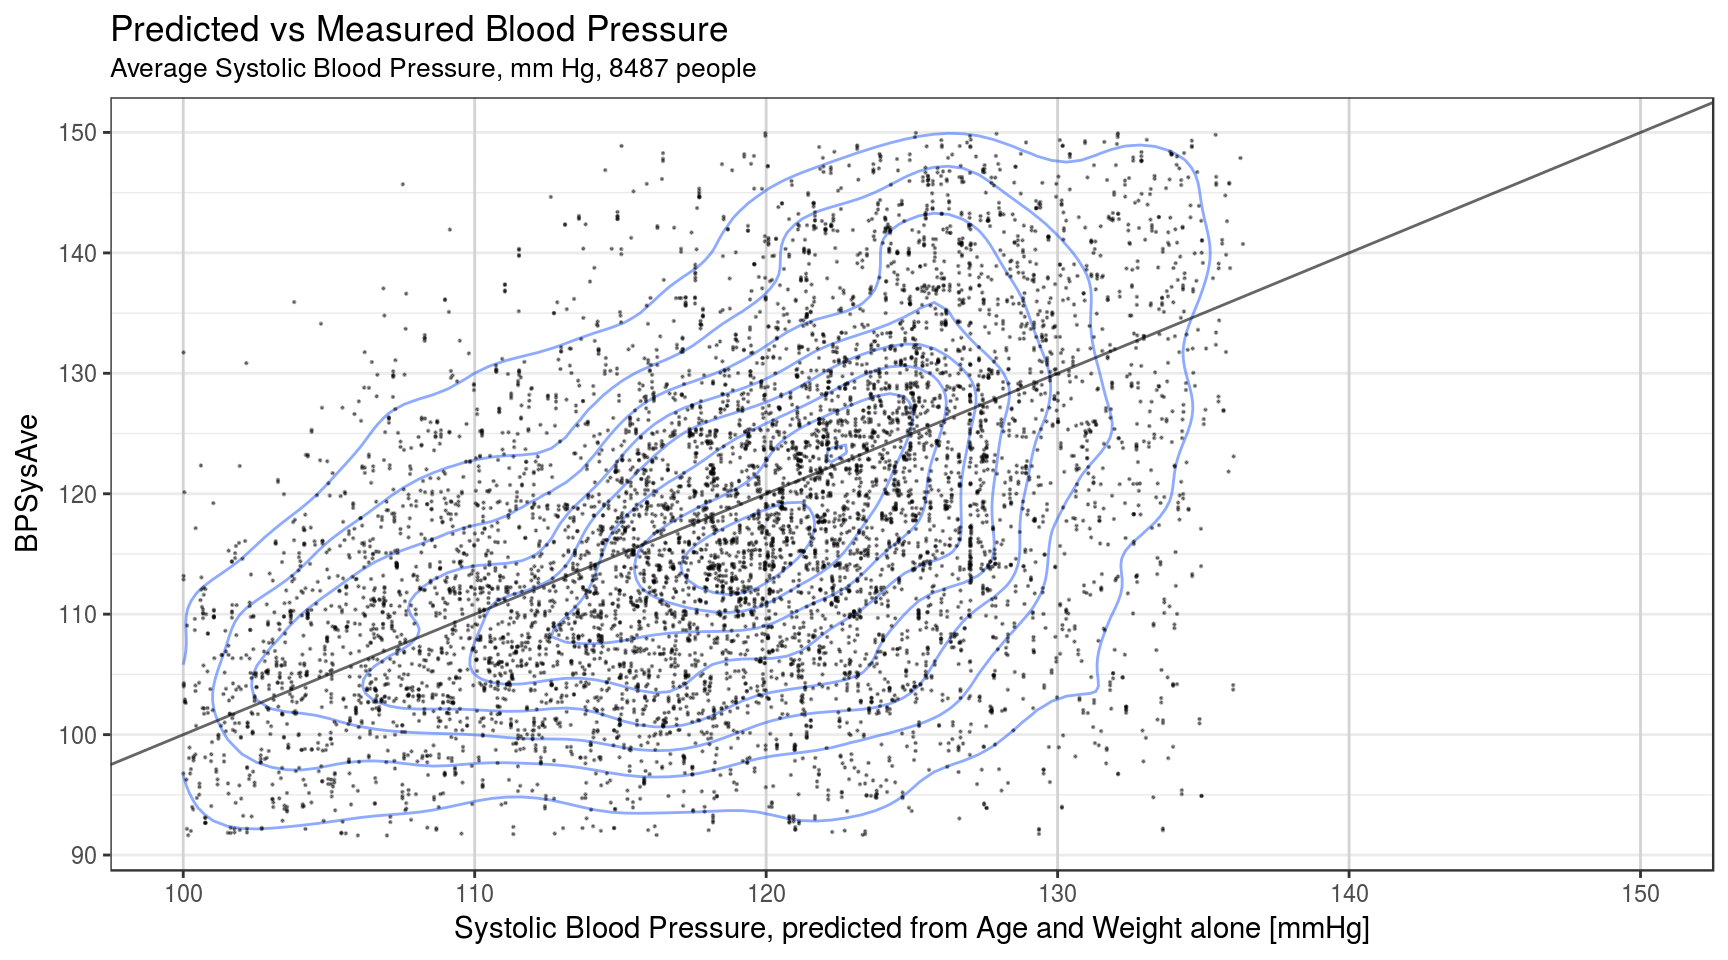
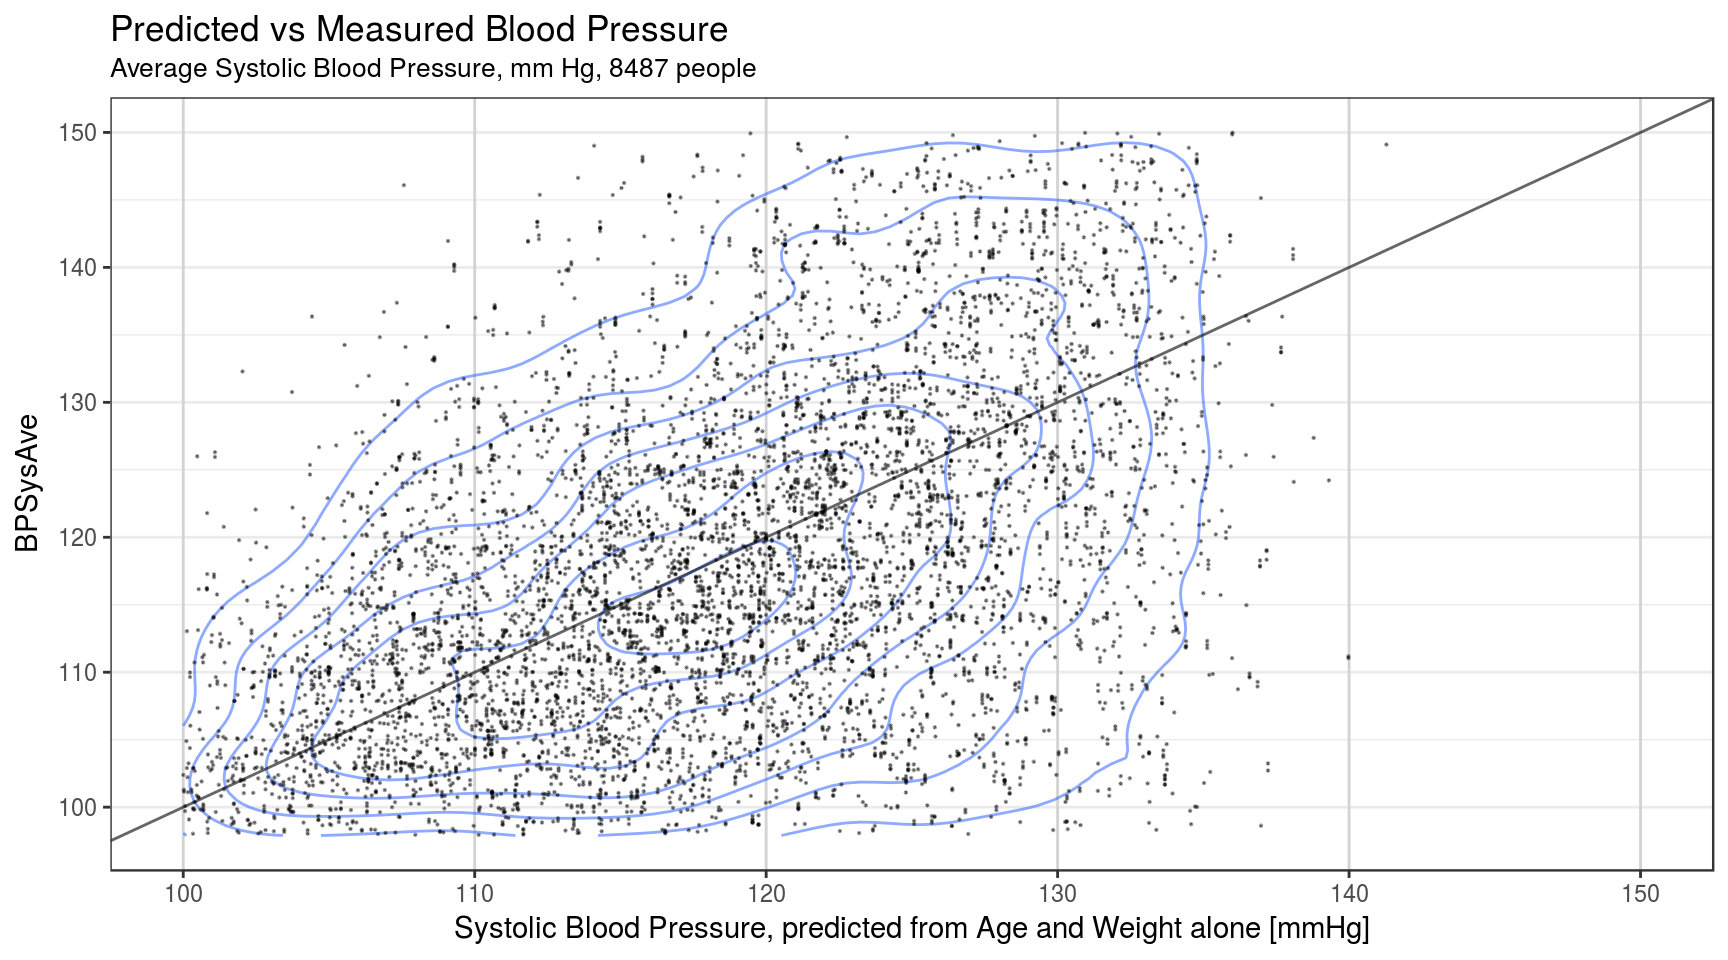
add interaction effect 1 plot and in text

diff --git a/content/post/2018-02-08-blood-pressure.html b/content/post/2018-02-08-blood-pressure.html
@@ -156,8 +156,8 @@ Figure 3: Blood Pressure by Age Group.
 <div id="linear-modeling" class="section level4">
 <h4>Linear modeling</h4>
 <p>Fit a linear regression model (Blood Pressure as a function of Age and Body Weight) to the entire <code>bloodpressure2</code> subset, just as above for the tiny dataset.</p>
-<p>I have included the interaction term <code>age:weight</code> because from experience it makes sense. The older body metabolizes slower, and at each age the human body has different rates of gaining weight.</p>
-<div class="alert alert-warning">There is a trend: systolic blood pressure increases with age. The rate is about <b>0.719 mm Hg/year.</b> Half as much as for the toy dataset. For data from a group <i>similar to me</i> (men only, 45+ yrs, 70-80 kg) the rate is ~6 mmHg/decade, a bit higher than 7.2 mmHg/decade. (See below)</div>
+<p>I have included the interaction term <code>age:weight</code> because from experience it makes sense: older bodies metabolize more differently, and thus at each age the human body has different rates of gaining weight.</p>
+<div class="alert alert-warning">There is a trend: systolic blood pressure increases with age. The rate is about <b>0.405 mm Hg/year.</b> Half as much as for the toy dataset. For data from a group <i>similar to me</i> (men only, 45+ yrs, 70-80 kg) the rate is ~6 mmHg/decade, a bit higher than 4.1 mmHg/decade. (See below)</div>
 <p>For the R experts:</p>
 <pre><code>## 
 ## Call:
@@ -179,7 +179,7 @@ Figure 3: Blood Pressure by Age Group.
 ## Residual standard error: 14.4 on 8483 degrees of freedom
 ## Multiple R-squared:  0.299,  Adjusted R-squared:  0.299 
 ## F-statistic: 1.21e+03 on 3 and 8483 DF,  p-value: &lt;2e-16</code></pre>
-<p>The significance of Age and Body Weight is very high, but the general correlation is weak ( R² = 0.299). This can also be seen in the following plots.</p>
+<p>The significance of Age and Body Weight is very high, but the general correlation is weak ( R² = 0.286). This can also be seen in the following plots.</p>
 <div class="figure"><span id="fig:actvspred"></span>
 <img src="/post/2018-02-08-blood-pressure_files/figure-html/actvspred-1.png" alt="Predicted vs Measured Blood Pressure." width="864" />
 <p class="caption">
@@ -189,11 +189,12 @@ Figure 4: Predicted vs Measured Blood Pressure.
 <p>The back diagonal line is the 1:1 line. Blue isolines indicate statistical density.</p>
 <p>Predicted values of the full model fall short of capturing the variability in the data. Maybe other factors have to be taken into into account (but not in this blogpost).</p>
 <div class="figure"><span id="fig:agepl"></span>
-<img src="/post/2018-02-08-blood-pressure_files/figure-html/agepl-1.png" alt="Blood Pressure as a function of Age and Weight.  Predicted values are shown in red, observed values in black. Blue line is BP predicted a function of Age alone." width="864" />
+<img src="/post/2018-02-08-blood-pressure_files/figure-html/agepl-1.png" alt="Blood Pressure as a function of Age and Weight.  Predicted values are shown in pink/red, observed values in black. Blue line is BP predicted a function of Age alone. Black line is BP modeled with weight/age interaction effect." width="864" />
 <p class="caption">
-Figure 5: Blood Pressure as a function of Age and Weight. Predicted values are shown in red, observed values in black. Blue line is BP predicted a function of Age alone.
+Figure 5: Blood Pressure as a function of Age and Weight. Predicted values are shown in pink/red, observed values in black. Blue line is BP predicted a function of Age alone. Black line is BP modeled with weight/age interaction effect.
 </p>
 </div>
+<p>In the plot above, <em>pink symbols</em> are predicted values from age and weight <em>without interaction</em>, whereas <em>red</em> symbols represent predictions which <em>include an interaction term</em> between age and weight. The interaction term seems to become increasingly more relevant with higher ages, changing the sign of the effect size. Honestly, I am <a href="https://stats.stackexchange.com/questions/5450/what-if-interaction-wipes-out-my-direct-effects-in-regression">not sure what I am looking at here</a>.</p>
 <p>Maybe we need to split by age group again?</p>
 </div>
 <div id="boxplots-of-blood-pressures-of-10-year-age-groups" class="section level4">
@@ -230,13 +231,13 @@ summary(bloodpressure3)        </code></pre>
 ##  3rd Qu.:134   3rd Qu.:67.0    0-9   : 0   3rd Qu.:78.3   3rd Qu.:27.9  
 ##  Max.   :179   Max.   :80.0   (Other): 0   Max.   :80.0   Max.   :29.8  
 ##                               NA&#39;s   :14                                
-##   Predictions 
-##  Min.   :114  
-##  1st Qu.:122  
-##  Median :125  
-##  Mean   :126  
-##  3rd Qu.:131  
-##  Max.   :141  
+##  prediction_ia  Predictions 
+##  Min.   :120   Min.   :114  
+##  1st Qu.:122   1st Qu.:122  
+##  Median :125   Median :125  
+##  Mean   :126   Mean   :126  
+##  3rd Qu.:129   3rd Qu.:131  
+##  Max.   :134   Max.   :141  
 ## </code></pre>
 <div class="figure"><span id="fig:bpplot"></span>
 <img src="/post/2018-02-08-blood-pressure_files/figure-html/bpplot-1.png" alt="Blood pressure as a function of age and body weight. NHANES data filtered to match age-range of Figure 1, and my own  BMI- and weight-range. Red dots are predicted values by the two-regressor model." width="864" />
